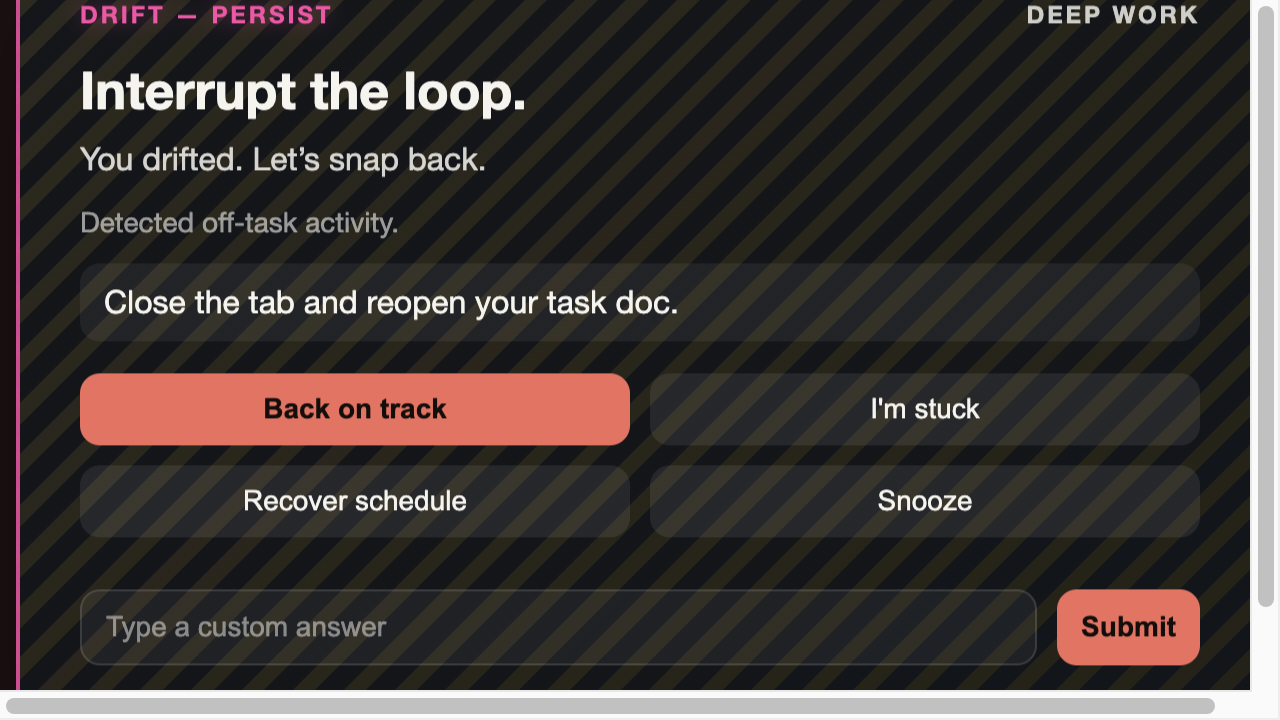
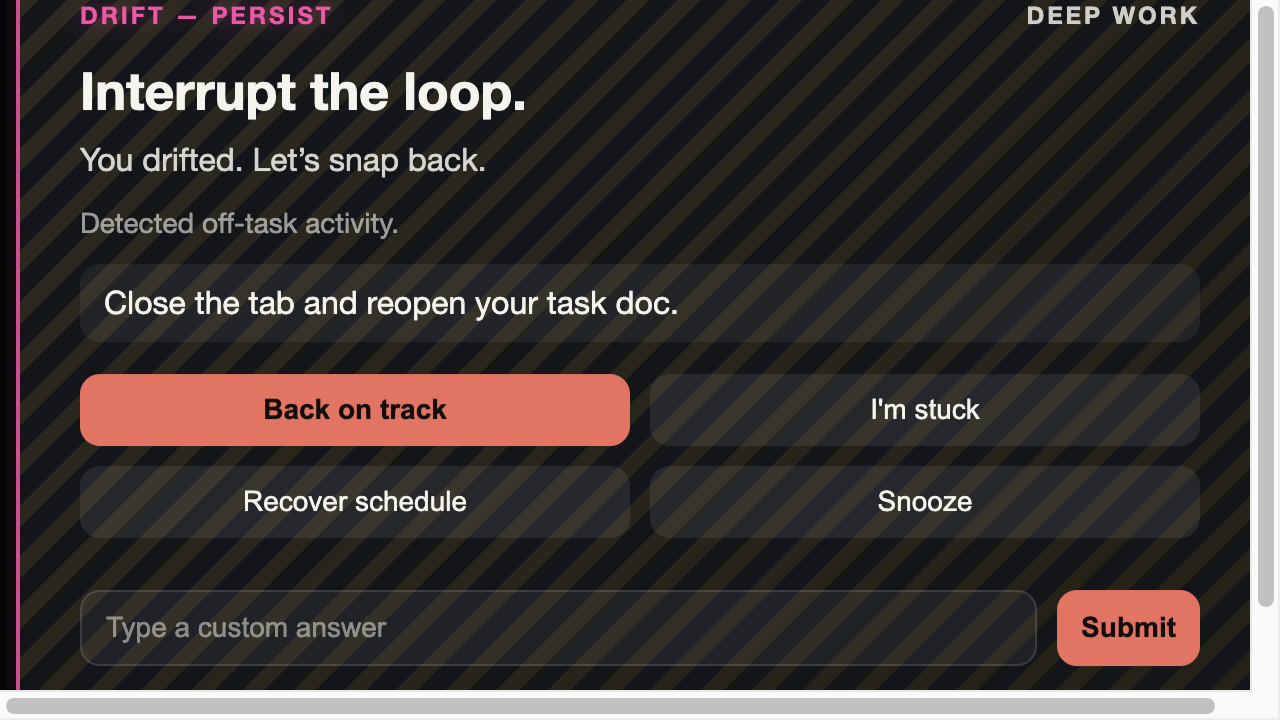
overlay: dedupe DRIFT_PERSIST pulse keyframes

diff --git a/overlay/overlay.css b/overlay/overlay.css
@@ -30,25 +30,6 @@ html, body {
   backdrop-filter: blur(8px);
 }
 
-/* Visual pattern-break when drift persists: stronger edge + subtle shake pulse. */
-#overlay[data-event-type="DRIFT_PERSIST"] .card {
-  border-color: rgba(241, 108, 91, 0.55);
-  box-shadow: 0 22px 80px rgba(241, 108, 91, 0.12), 0 18px 60px rgba(0, 0, 0, 0.55);
-  animation: driftPersistPulse 900ms ease-in-out 1;
-}
-
-#overlay[data-event-type="DRIFT_PERSIST"] .label {
-  color: #ffb24a;
-}
-
-@keyframes driftPersistPulse {
-  0% { transform: translateX(0); }
-  18% { transform: translateX(-6px); }
-  36% { transform: translateX(6px); }
-  54% { transform: translateX(-4px); }
-  72% { transform: translateX(4px); }
-  100% { transform: translateX(0); }
-}
 
 #overlay[data-level="A"] .card {
   width: 320px;
